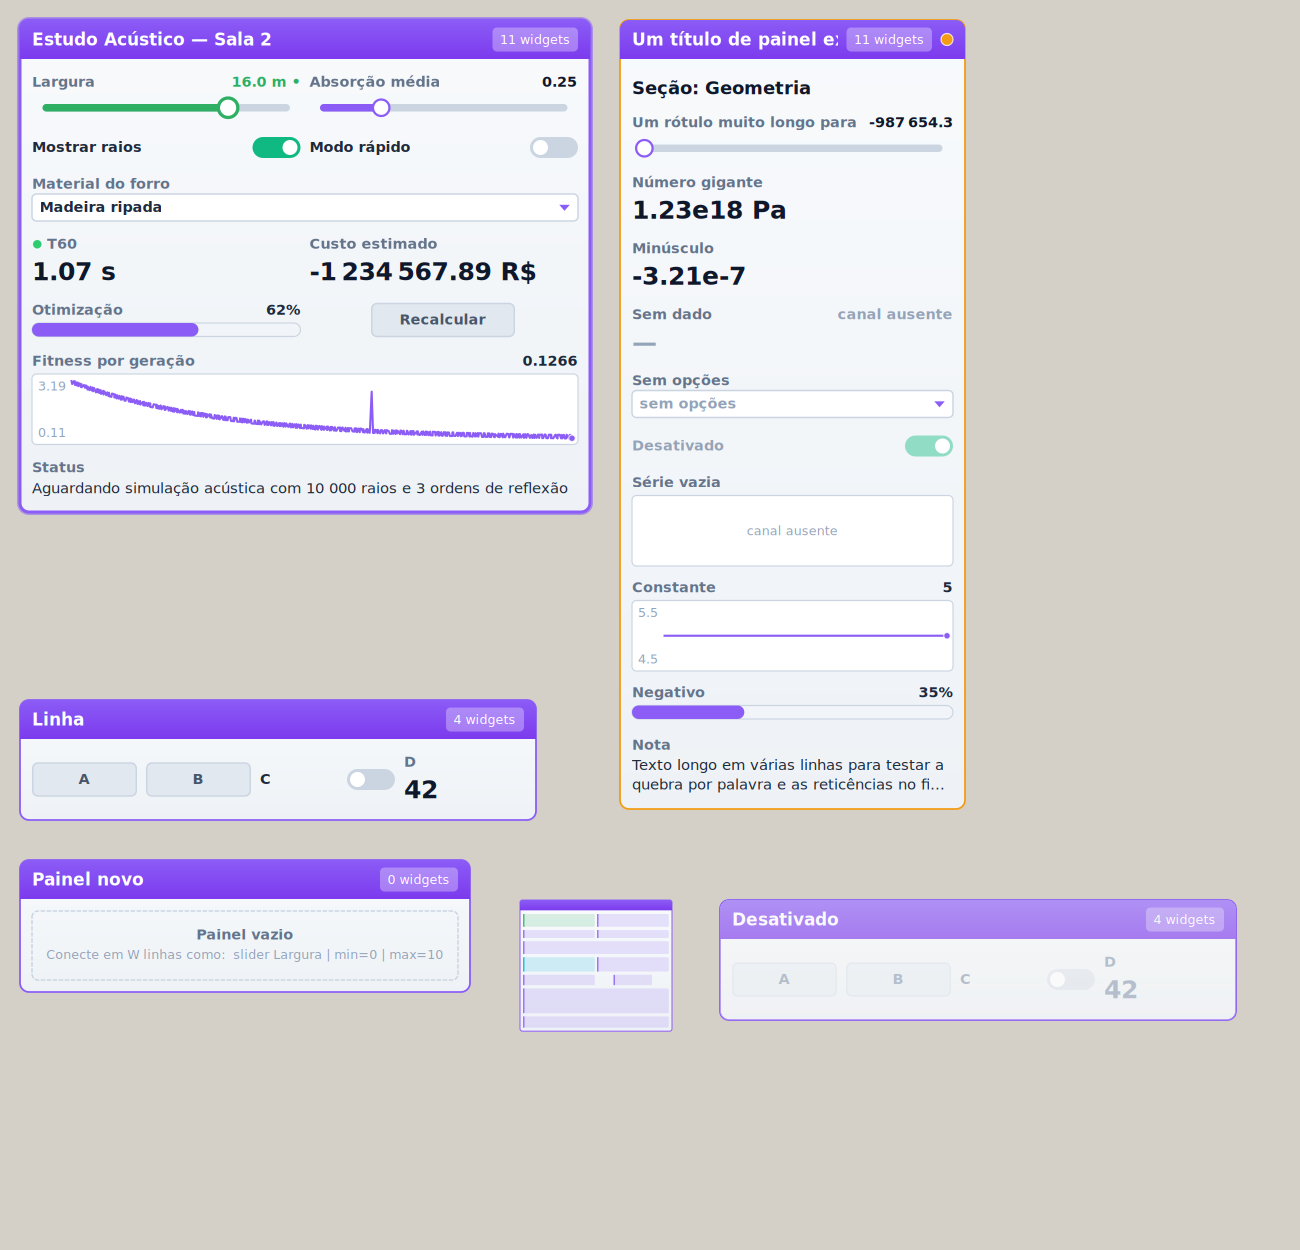
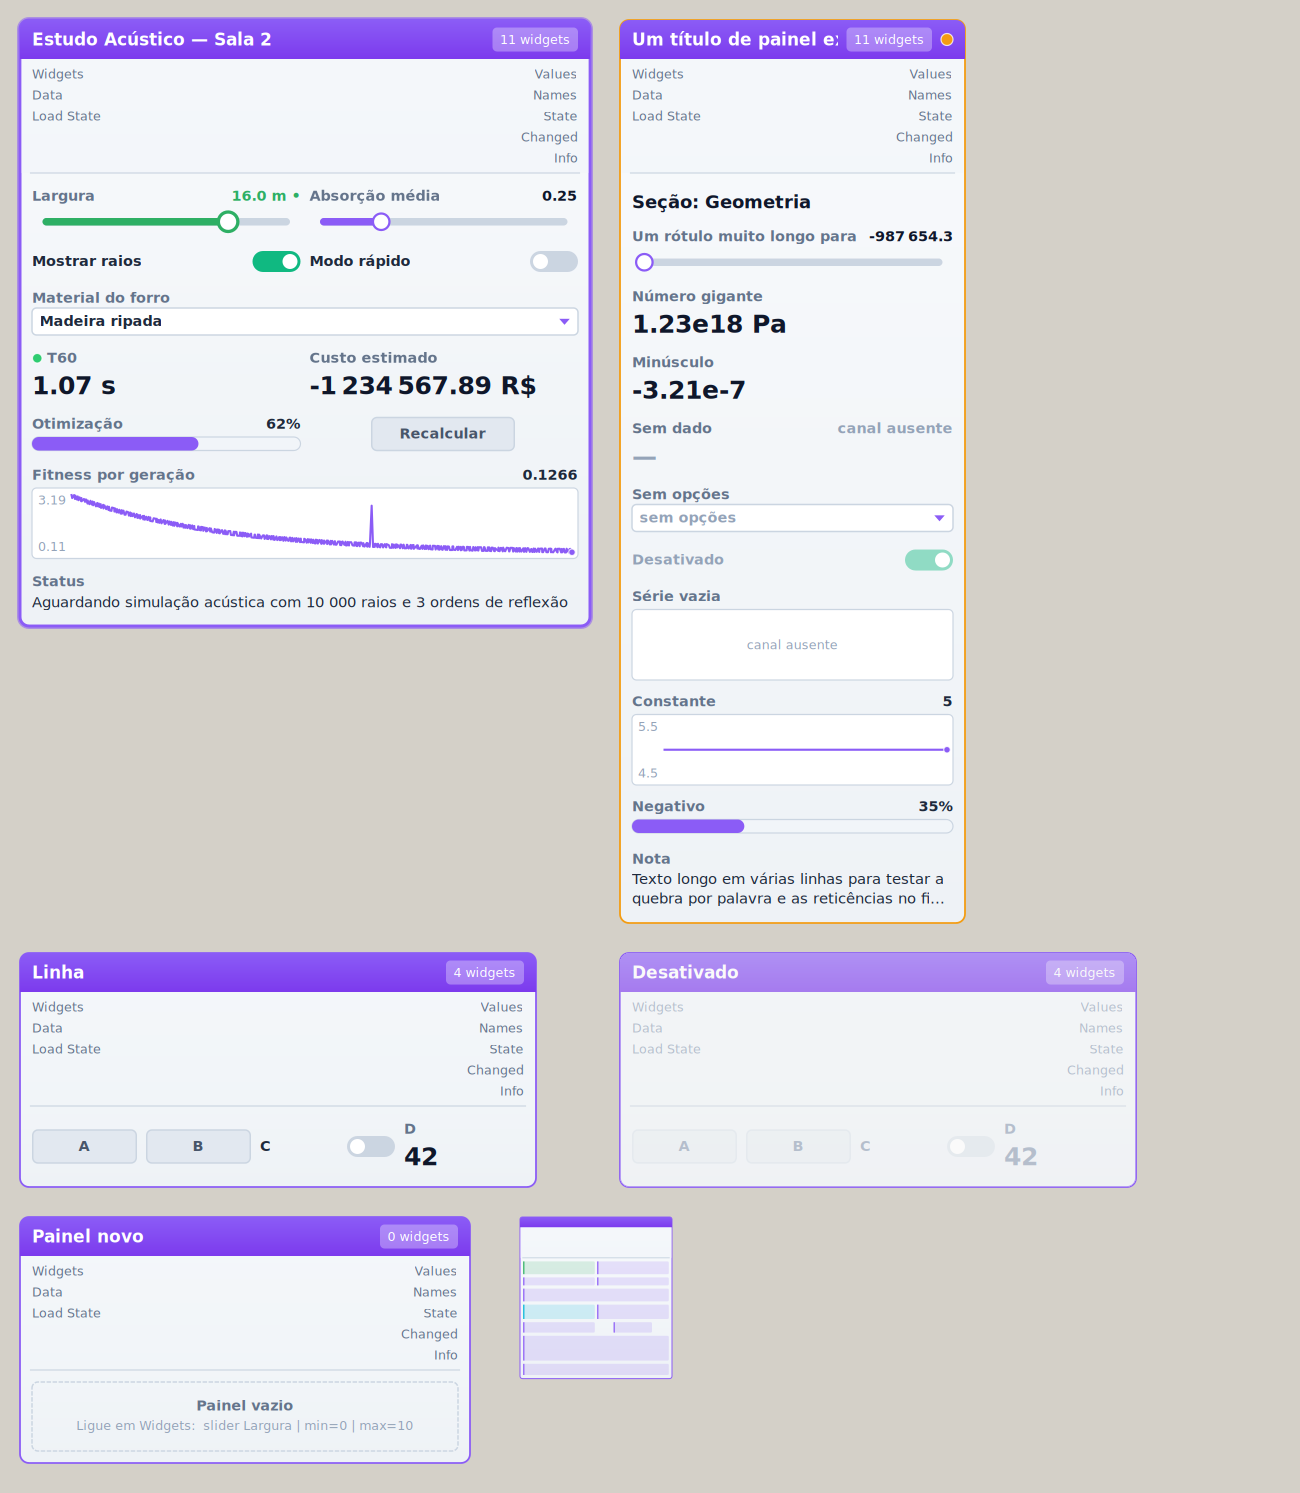
fix(dashboard): nomes das entradas e saídas alinhados aos grips
O Pill Dashboard mostrava só as bolinhas dos grips nas bordas, sem dizer qual era cada entrada e saída, e com o painel vazio a última saída ficava fora do cartão.

- Faixa abaixo do título com os nomes das entradas (esquerda) e saídas (direita), um por linha, alinhados aos grips; segue a opção Draw Full Names do Grasshopper (nome completo ou apelido).
- Os bounds de cada parâmetro cobrem o nome: tooltip e menu do parâmetro com o botão direito, como num componente comum.
- A área de widgets começa abaixo da faixa, então o cartão sempre tem altura para todos os grips.
- Texto de ajuda do painel vazio mais curto; galeria e documentação atualizadas; teste de que todos os grips ficam dentro do painel.

Claude-Session: https://claude.ai/code/session_01CqGWYGMiyMJy1i1M6Fp1F6

diff --git a/src/Core/Dashboard/DashboardRenderer.cs b/src/Core/Dashboard/DashboardRenderer.cs
@@ -1,4 +1,5 @@
 using System;
+using System.Collections.Generic;
 using System.Drawing;
 using System.Drawing.Drawing2D;
 using Buraqueira_Tools.Visual;
@@ -19,6 +20,11 @@ namespace Buraqueira_Tools.Dashboard
 
         public string Badge { get; set; }
         public Func<WidgetSpec, Color> AccentOf { get; set; }
+
+        /// <summary>Nomes das entradas (à esquerda) e saídas (à direita), na ordem dos grips.</summary>
+        public IList<string> InputLabels { get; set; } = Array.Empty<string>();
+
+        public IList<string> OutputLabels { get; set; } = Array.Empty<string>();
     }
 
     /// <summary>
@@ -33,7 +39,7 @@ namespace Buraqueira_Tools.Dashboard
         {
             var g = ctx.Graphics;
             var t = ctx.Theme;
-            var layout = controller.Layout ?? controller.Arrange(t.Metrics.HeaderHeight);
+            var layout = controller.Layout ?? controller.Arrange(t.Metrics.ContentTop(chrome.InputLabels?.Count ?? 0, chrome.OutputLabels?.Count ?? 0));
             var oldSmoothing = g.SmoothingMode;
             var oldText = g.TextRenderingHint;
             g.SmoothingMode = SmoothingMode.AntiAlias;
@@ -41,6 +47,7 @@ namespace Buraqueira_Tools.Dashboard
 
             DrawCard(g, bounds, chrome, t);
             DrawHeader(ctx, bounds, chrome);
+            DrawParamBand(ctx, bounds, chrome);
 
             var oldClip = g.Clip;
             g.SetClip(RectangleF.Inflate(bounds, -1f, -1f), CombineMode.Intersect);
@@ -157,6 +164,45 @@ namespace Buraqueira_Tools.Dashboard
             }
         }
 
+        /// <summary>
+        /// Faixa com os nomes das entradas e saídas alinhados aos grips (como num componente comum do Grasshopper):
+        /// sem ela, um painel só mostra bolinhas nas bordas e não dá para saber onde ligar cada fio.
+        /// </summary>
+        private static void DrawParamBand(DashboardRenderContext ctx, RectangleF b, DashboardChrome chrome)
+        {
+            var m = ctx.Theme.Metrics;
+            int nIn = chrome.InputLabels?.Count ?? 0, nOut = chrome.OutputLabels?.Count ?? 0;
+            float h = m.ParamBandHeight(nIn, nOut);
+            if (h <= 0) return;
+            var g = ctx.Graphics;
+            var band = new RectangleF(b.X + 1f, b.Y + m.HeaderHeight, b.Width - 2f, h);
+            using (var bg = new SolidBrush(Color.FromArgb(120, PillVisualKit.Field)))
+            using (var line = new Pen(PillVisualKit.FieldBorder, 0.8f))
+            {
+                g.FillRectangle(bg, band);
+                g.DrawLine(line, band.X + 6f, band.Bottom, band.Right - 6f, band.Bottom);
+            }
+            if (ctx.LowDetail) return;
+
+            var font = ctx.Theme.SmallFont;
+            float half = b.Width / 2f - 12f;
+            using (var ink = new SolidBrush(chrome.Locked ? PillVisualKit.Faint : PillVisualKit.Muted))
+            using (var left = new StringFormat { Alignment = StringAlignment.Near, LineAlignment = StringAlignment.Center, Trimming = StringTrimming.EllipsisCharacter, FormatFlags = StringFormatFlags.NoWrap })
+            using (var right = new StringFormat { Alignment = StringAlignment.Far, LineAlignment = StringAlignment.Center, Trimming = StringTrimming.EllipsisCharacter, FormatFlags = StringFormatFlags.NoWrap })
+            {
+                for (int i = 0; i < nIn; i++)
+                {
+                    float cy = b.Y + m.ParamRowCenterY(i);
+                    g.DrawString(chrome.InputLabels[i], font, ink, new RectangleF(b.X + 8f, cy - m.ParamRowHeight / 2f, half, m.ParamRowHeight), left);
+                }
+                for (int i = 0; i < nOut; i++)
+                {
+                    float cy = b.Y + m.ParamRowCenterY(i);
+                    g.DrawString(chrome.OutputLabels[i], font, ink, new RectangleF(b.Right - 8f - half, cy - m.ParamRowHeight / 2f, half, m.ParamRowHeight), right);
+                }
+            }
+        }
+
         private static void DrawEmpty(DashboardRenderContext ctx, RectangleF content, bool allHidden)
         {
             if (ctx.LowDetail) return;
@@ -167,7 +213,7 @@ namespace Buraqueira_Tools.Dashboard
                 ctx.Graphics.DrawPath(pen, path);
             }
             string title = allHidden ? "Todos os widgets estão ocultos" : "Painel vazio";
-            string hint = allHidden ? "remova 'hidden' ou 'visible=false'" : "Conecte em W linhas como:  slider Largura | min=0 | max=10";
+            string hint = allHidden ? "remova 'hidden' ou 'visible=false'" : "Ligue em Widgets:  slider Largura | min=0 | max=10";
             using (var titleBrush = new SolidBrush(PillVisualKit.Muted))
             using (var hintBrush = new SolidBrush(PillVisualKit.Faint))
             using (var sf = new StringFormat { Alignment = StringAlignment.Center, LineAlignment = StringAlignment.Center, Trimming = StringTrimming.EllipsisCharacter, FormatFlags = StringFormatFlags.NoWrap })

diff --git a/src/Core/DashboardAttributes.cs b/src/Core/DashboardAttributes.cs
@@ -33,30 +33,50 @@ namespace Buraqueira_Tools
 
         protected override void Layout()
         {
-            var theme = DashboardTheme.Default;
-            var layout = Controller.Arrange(theme.Metrics.HeaderHeight);
+            var metrics = DashboardTheme.Default.Metrics;
+            int nIn = Owner.Params.Input.Count, nOut = Owner.Params.Output.Count;
+            // A área de widgets começa abaixo da faixa com os nomes das entradas e saídas
+            var layout = Controller.Arrange(metrics.ContentTop(nIn, nOut));
             // Canto superior esquerdo fixo no Pivot: o painel cresce para baixo/direita ao ganhar widgets
             var pivot = new PointF((float)Math.Round(Pivot.X), (float)Math.Round(Pivot.Y));
             Bounds = new RectangleF(pivot.X, pivot.Y, layout.Size.Width, layout.Size.Height);
-            PlaceGrips(Owner.Params.Input, Bounds.Left, true);
-            PlaceGrips(Owner.Params.Output, Bounds.Right, false);
+            PlaceGrips(Owner.Params.Input, true, metrics);
+            PlaceGrips(Owner.Params.Output, false, metrics);
         }
 
-        private void PlaceGrips(System.Collections.Generic.List<IGH_Param> list, float x, bool input)
+        /// <summary>
+        /// Cada parâmetro ocupa a linha do seu nome na faixa de parâmetros: o grip fica na borda do painel, na altura do
+        /// nome, e os bounds cobrem o nome (tooltip e menu do parâmetro com o botão direito, como num componente comum).
+        /// </summary>
+        private void PlaceGrips(System.Collections.Generic.List<IGH_Param> list, bool input, DashboardMetrics m)
         {
-            int n = list.Count;
-            if (n == 0) return;
-            float h = DashboardTheme.Default.Metrics.HeaderHeight;
-            float top = Bounds.Y + h + 4f;
-            float available = Math.Max(n * 14f, Bounds.Bottom - top - 4f);
-            float step = Math.Min(18f, available / n);
-            for (int i = 0; i < n; i++)
+            float half = Math.Max(20f, Bounds.Width / 2f - 4f);
+            for (int i = 0; i < list.Count; i++)
             {
                 var p = list[i];
-                float y = top + step * (i + 0.5f);
-                p.Attributes.Bounds = input ? new RectangleF(x, y - 6f, 10f, 12f) : new RectangleF(x - 10f, y - 6f, 10f, 12f);
-                p.Attributes.Pivot = new PointF(x, y);
+                float y = Bounds.Y + m.ParamRowCenterY(i);
+                p.Attributes.Bounds = input
+                    ? new RectangleF(Bounds.Left, y - m.ParamRowHeight / 2f, half, m.ParamRowHeight)
+                    : new RectangleF(Bounds.Right - half, y - m.ParamRowHeight / 2f, half, m.ParamRowHeight);
+                p.Attributes.Pivot = new PointF(input ? Bounds.Left : Bounds.Right, y);
             }
+        }
+
+        /// <summary>Nomes completos ou apelidos, conforme a opção "Draw Full Names" do Grasshopper.</summary>
+        private static string[] ParamLabels(System.Collections.Generic.List<IGH_Param> list)
+        {
+            bool full = true;
+            try
+            {
+                full = Grasshopper.CentralSettings.CanvasFullNames;
+            }
+            catch
+            {
+                // Configurações indisponíveis: nomes completos
+            }
+            var labels = new string[list.Count];
+            for (int i = 0; i < list.Count; i++) labels[i] = full ? list[i].Name : list[i].NickName;
+            return labels;
         }
 
         private PointF ToLocal(PointF canvasPoint) => new PointF(canvasPoint.X - Bounds.X, canvasPoint.Y - Bounds.Y);
@@ -82,7 +102,9 @@ namespace Buraqueira_Tools
                 Locked = Owner.Locked,
                 MessageLevel = Owner.RuntimeMessageLevel == GH_RuntimeMessageLevel.Error ? 2 : Owner.RuntimeMessageLevel == GH_RuntimeMessageLevel.Warning ? 1 : 0,
                 Badge = _owner.Badge,
-                AccentOf = spec => DashboardColors.Resolve(spec, DashboardTheme.Default.Accent)
+                AccentOf = spec => DashboardColors.Resolve(spec, DashboardTheme.Default.Accent),
+                InputLabels = ParamLabels(Owner.Params.Input),
+                OutputLabels = ParamLabels(Owner.Params.Output)
             };
             DashboardRenderer.Render(ctx, Controller, Bounds, chrome);
 

diff --git a/tests/render/DashboardGallery.cs b/tests/render/DashboardGallery.cs
@@ -32,7 +32,7 @@ class DashboardGallery
     {
         var c = new DashboardController { LiveSource = hub };
         c.SetSpec(DashboardSpecParser.Parse(lines));
-        c.Arrange(26);
+        c.Arrange(DashboardMetrics.Default.ContentTop(3, 5)); // cabeçalho + faixa de parâmetros (3 entradas, 5 saídas)
         return c;
     }
 
@@ -43,6 +43,8 @@ class DashboardGallery
         g.ScaleTransform(zoom, zoom);
         var ctx = new DashboardRenderContext(g, DashboardTheme.Default, zoom);
         var chrome = new DashboardChrome { Title = title, Badge = c.Widgets.Count + " widgets", Locked = locked, MessageLevel = msg, Selected = selected,
+            InputLabels = new[] { "Widgets", "Data", "Load State" },
+            OutputLabels = new[] { "Values", "Names", "State", "Changed", "Info" },
             AccentOf = s => s.HubKey != null && s.HubKey.StartsWith("[ACU]") ? Color.FromArgb(0, 180, 216) : s.HubKey != null && s.HubKey.StartsWith("[GEO]") ? Color.FromArgb(46, 175, 100) : Color.Empty };
         DashboardRenderer.Render(ctx, c, new RectangleF(0, 0, c.Layout.Size.Width, c.Layout.Size.Height), chrome);
         g.Restore(state);
@@ -96,19 +98,24 @@ class DashboardGallery
         var row = Make(hub, "title = Linha", "layout = row", "width = 300", "button A", "button B | span=2", "toggle C", "number D | value=42");
         var empty = Make(hub, "title = Painel novo");
 
-        using (var bmp = new Bitmap(1300, 1250))
+        // Posições calculadas pelas alturas reais (o painel cresce com a faixa de parâmetros e os widgets)
+        const float S = 1.5f, gap = 30f;
+        float rowY = 20 + Math.Max(full.Layout.Size.Height, stack.Layout.Size.Height) * S + gap;
+        float emptyY = rowY + row.Layout.Size.Height * S + gap;
+        int height = (int)(emptyY + Math.Max(empty.Layout.Size.Height * S, full.Layout.Size.Height * 0.4f) + 30);
+        using (var bmp = new Bitmap(1300, height))
         using (var g = Graphics.FromImage(bmp))
         {
             g.Clear(Color.FromArgb(212, 208, 200));
-            Draw(g, full, 20, 20, 1.5f, "Estudo Acústico — Sala 2", selected: true);
-            Draw(g, stack, 620, 20, 1.5f, stack.Spec.Title, msg: 1);
-            Draw(g, row, 20, 700, 1.5f, "Linha");
-            Draw(g, empty, 20, 860, 1.5f, "Painel novo");
-            Draw(g, full, 520, 900, 0.4f, "zoom baixo");
-            Draw(g, row, 720, 900, 1.5f, "Desativado", locked: true);
+            Draw(g, full, 20, 20, S, "Estudo Acústico — Sala 2", selected: true);
+            Draw(g, stack, 620, 20, S, stack.Spec.Title, msg: 1);
+            Draw(g, row, 20, rowY, S, "Linha");
+            Draw(g, row, 620, rowY, S, "Desativado", locked: true);
+            Draw(g, empty, 20, emptyY, S, "Painel novo");
+            Draw(g, full, 520, emptyY, 0.4f, "zoom baixo");
             bmp.Save("gallery.png", ImageFormat.Png);
         }
-        using (var bmp = new Bitmap(1200, 900))
+        using (var bmp = new Bitmap(1200, 1250))
         using (var g = Graphics.FromImage(bmp))
         {
             g.Clear(Color.FromArgb(212, 208, 200));

diff --git a/tests/Glaux_Tools.Tests/DashboardTests.cs b/tests/Glaux_Tools.Tests/DashboardTests.cs
@@ -346,6 +346,25 @@ namespace Glaux_Tools.Tests
             Assert.True(empty.Content.Height > 0 && empty.Size.Height > o.HeaderHeight);
         }
 
+        [Theory]
+        [InlineData(0)]   // painel vazio (o caso mais baixo)
+        [InlineData(1)]
+        [InlineData(12)]
+        public void ParamBand_KeepsEveryGripInsideThePanel_AndWidgetsBelowIt(int widgets)
+        {
+            var m = DashboardMetrics.Default;
+            int inputs = 3, outputs = 5;
+            float top = m.ContentTop(inputs, outputs);
+            Assert.Equal(m.HeaderHeight + m.ParamBandHeight(inputs, outputs), top);
+            Assert.True(m.ParamRowCenterY(outputs - 1) + m.ParamRowHeight / 2f <= top); // última linha dentro da faixa
+
+            var items = Enumerable.Range(0, widgets).Select(_ => Item(20)).ToList();
+            var r = DashboardLayoutEngine.Arrange(new LayoutOptions { Kind = LayoutKind.Stack, Width = 300, HeaderHeight = top }, items);
+            Assert.True(r.Size.Height > top); // o painel sempre contém a faixa inteira (todos os grips)
+            Assert.All(r.Items, it => Assert.True(it.Top >= top)); // widgets começam abaixo dos nomes
+            Assert.Equal(0f, m.ParamBandHeight(0, 0));
+        }
+
         [Fact]
         public void ManyWidgets_StayOrderedAndSane()
         {

diff --git a/src/Core/Dashboard/DashboardTheme.cs b/src/Core/Dashboard/DashboardTheme.cs
@@ -20,6 +20,24 @@ namespace Buraqueira_Tools.Dashboard
         public float FieldHeight { get; set; } = 18f;
         public float KnobMargin { get; set; } = 7f;
 
+        /// <summary>Altura de cada linha da faixa de parâmetros (nomes das entradas/saídas alinhados aos grips).</summary>
+        public float ParamRowHeight { get; set; } = 14f;
+
+        public float ParamBandPadding { get; set; } = 3f;
+
+        /// <summary>Altura da faixa de parâmetros abaixo do cabeçalho (0 sem parâmetros).</summary>
+        public float ParamBandHeight(int inputs, int outputs)
+        {
+            int rows = Math.Max(inputs, outputs);
+            return rows <= 0 ? 0f : 2 * ParamBandPadding + rows * ParamRowHeight;
+        }
+
+        /// <summary>Centro vertical (coordenada local do painel) da linha <paramref name="index"/> da faixa de parâmetros.</summary>
+        public float ParamRowCenterY(int index) => HeaderHeight + ParamBandPadding + (index + 0.5f) * ParamRowHeight;
+
+        /// <summary>Topo da área de widgets: cabeçalho + faixa de parâmetros.</summary>
+        public float ContentTop(int inputs, int outputs) => HeaderHeight + ParamBandHeight(inputs, outputs);
+
         public static DashboardMetrics Default { get; } = new DashboardMetrics();
     }
 

diff --git a/docs/stacks/06_Dashboard.md b/docs/stacks/06_Dashboard.md
@@ -118,7 +118,7 @@ Fluxo de um commit: o controlador grava o estado → o painel publica no PillHub
 | Changed (C) | Id do controle que disparou a solução (vazio se veio de outro lugar). |
 | Info (I) | Widgets, valores, ligações com o Hub, commits, última solução, modo Auto atual, avisos. |
 
-No canvas: clique no trilho salta, arraste para ajustar, **duplo clique no slider para digitar o valor**; clique no dropdown abre a lista; passe o mouse sobre um widget para ver rótulo completo, id, chave e valor (tooltip). Menu: *Restaurar valores padrão*, *Copiar definição*, *Copiar estado*. Com zoom abaixo de 45 % o painel vira blocos sem texto e os widgets não reagem (fica fácil arrastar o painel inteiro).
+No canvas: os nomes das entradas e saídas ficam numa faixa logo abaixo do título, alinhados aos grips (nome completo ou apelido, conforme a opção *Draw Full Names* do Grasshopper); passe o mouse ou clique com o botão direito num nome para ver o tooltip e o menu do parâmetro, como num componente comum. Clique no trilho salta, arraste para ajustar, **duplo clique no slider para digitar o valor**; clique no dropdown abre a lista; passe o mouse sobre um widget para ver rótulo completo, id, chave e valor (tooltip). Menu: *Restaurar valores padrão*, *Copiar definição*, *Copiar estado*. Com zoom abaixo de 45 % o painel vira blocos sem texto e os widgets não reagem (fica fácil arrastar o painel inteiro).
 
 ### Pill Dashboard Builder (`DashBuild`)
 
